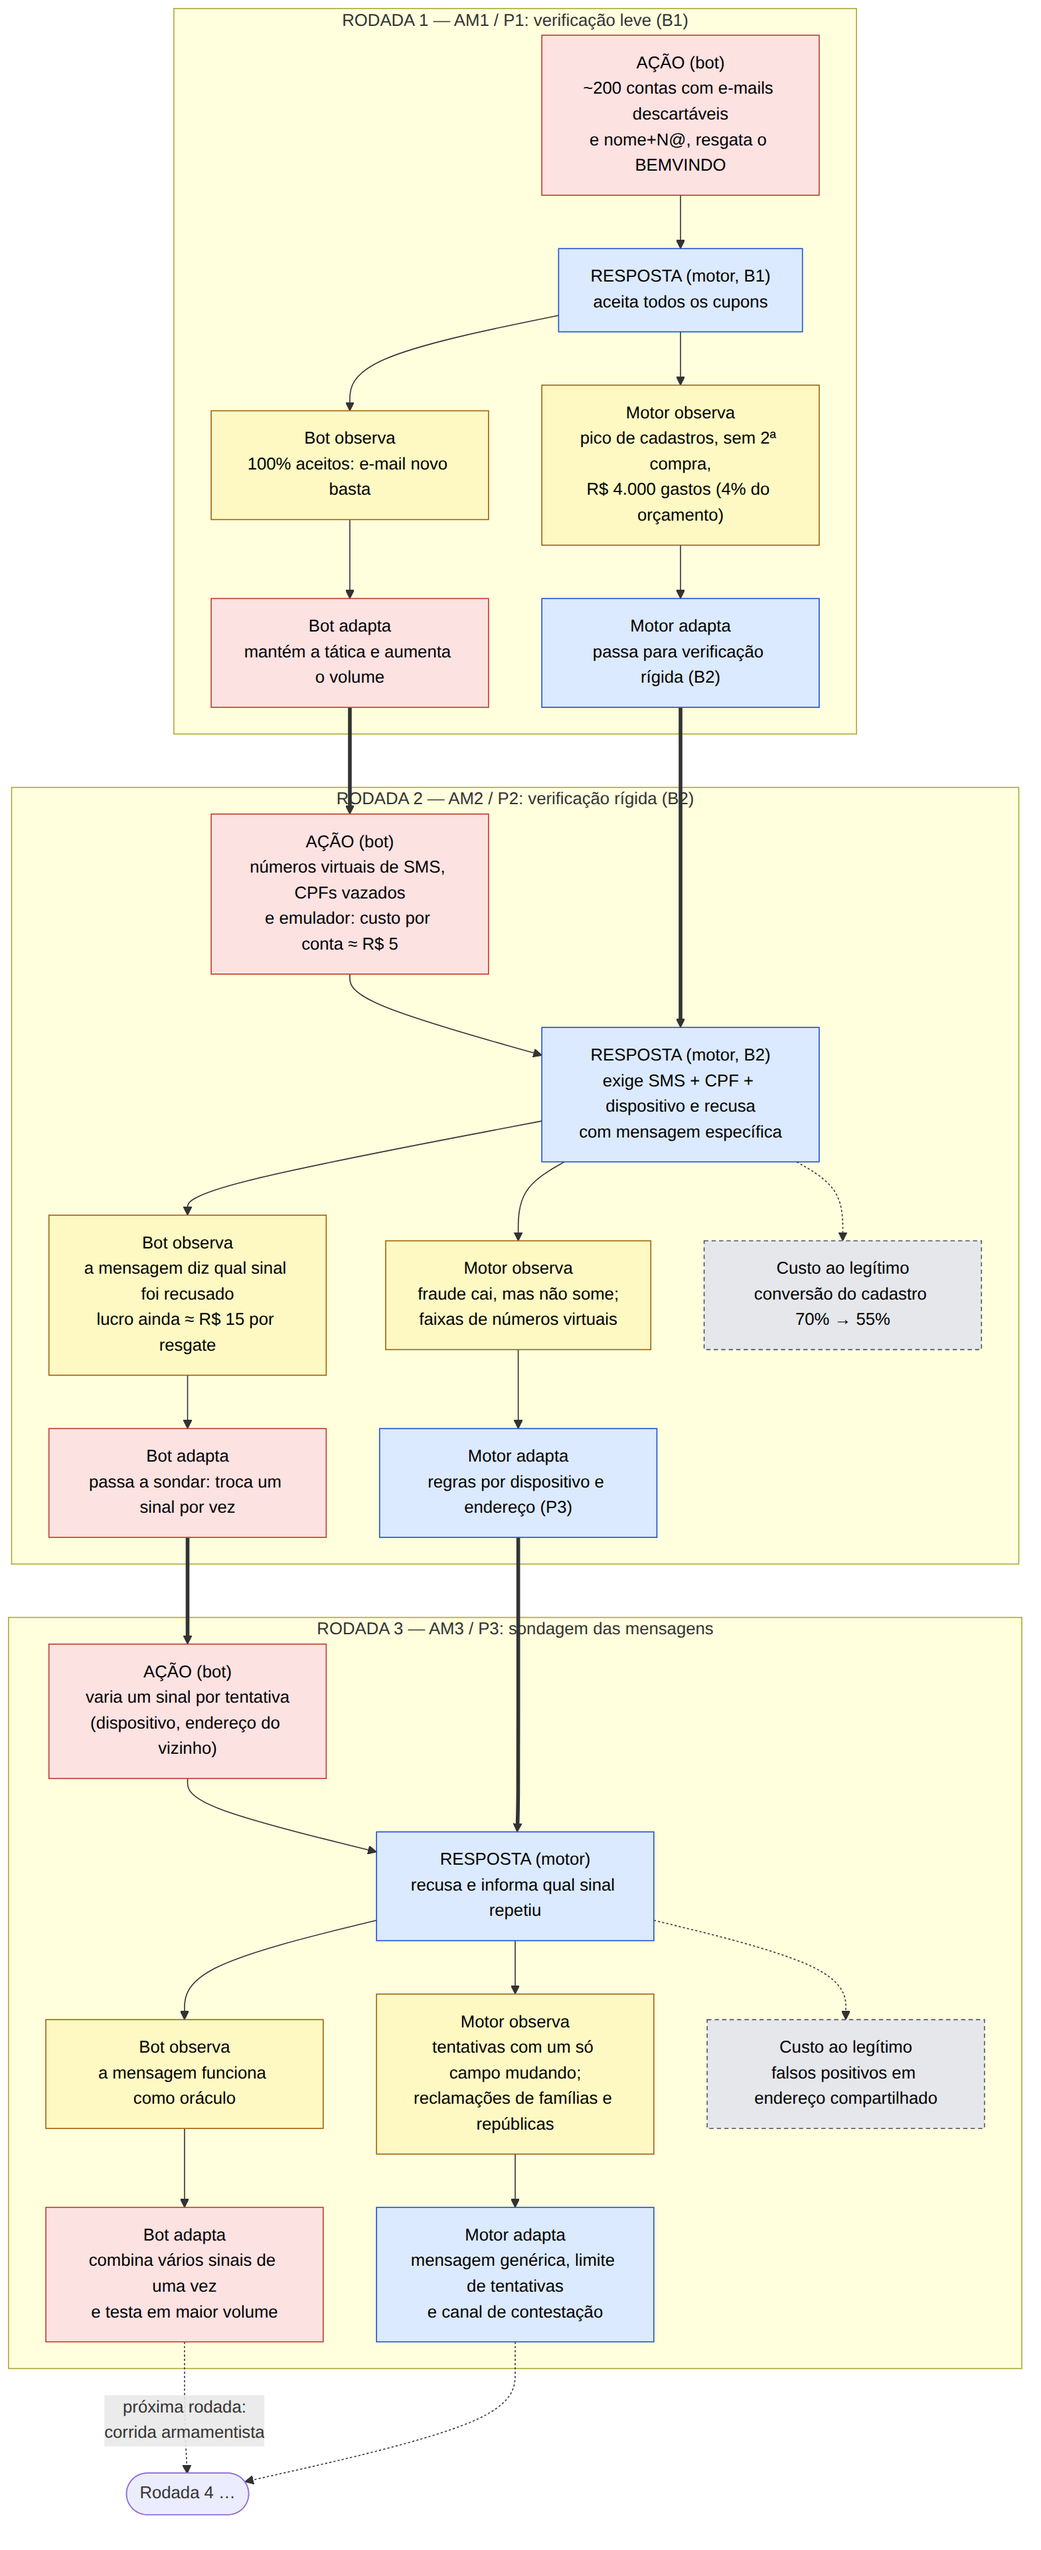
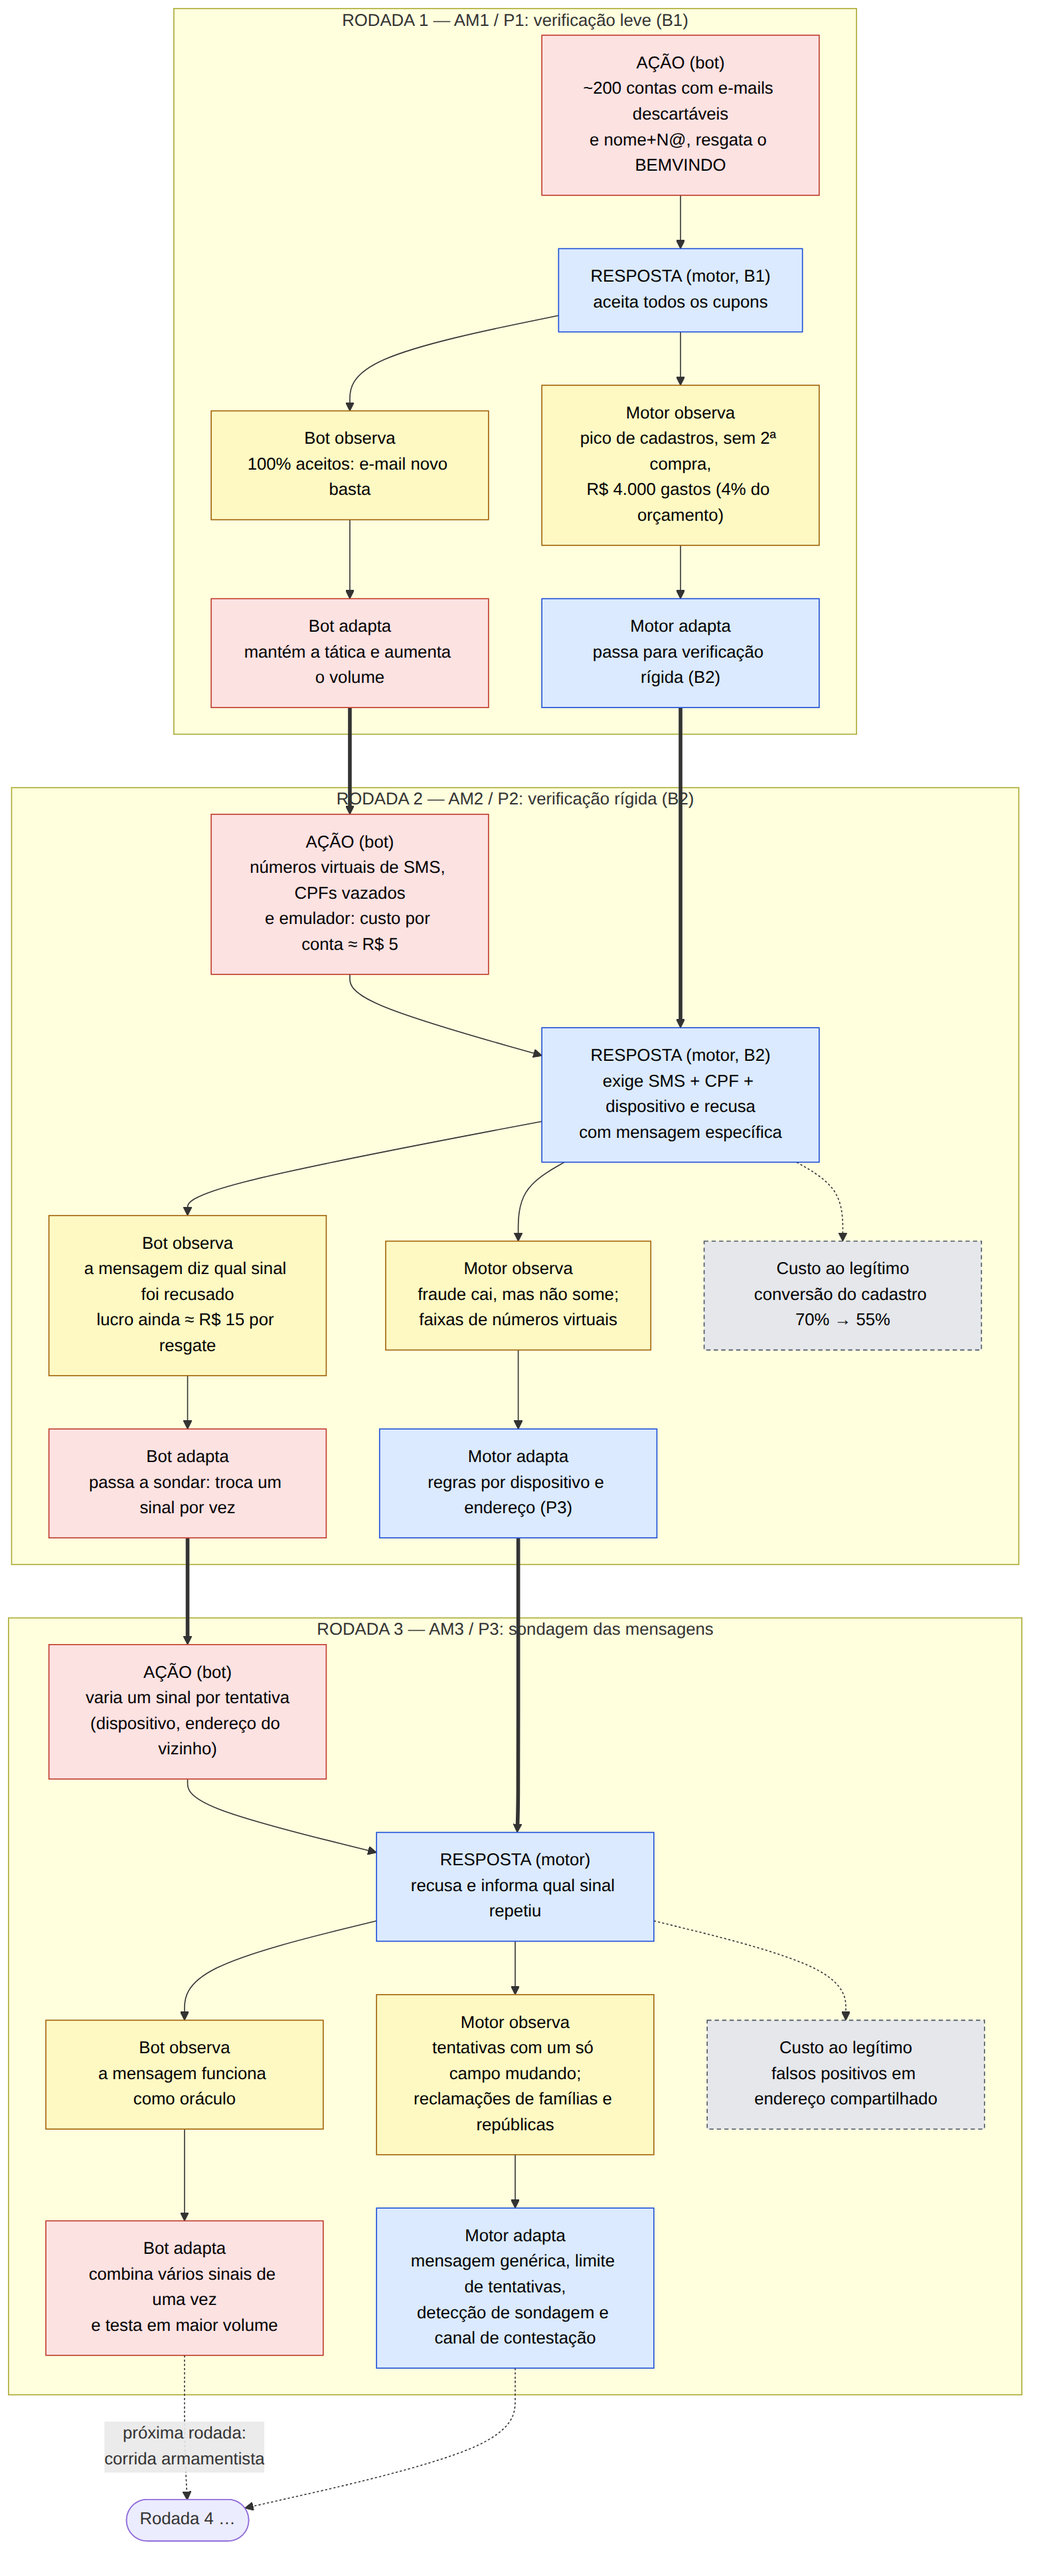
Atualiza declaração de uso de IA e ajusta texto e diagrama para conformidade

diff --git a/README.md b/README.md
@@ -86,8 +86,8 @@ nem remove):**
 | ID  | Ameaça (resumo)                                                                                                                 | Ponto    | Pressuposto ou fraqueza                      | Ativo afetado                                                                                 |
 |-----|---------------------------------------------------------------------------------------------------------------------------------|----------|----------------------------------------------|-----------------------------------------------------------------------------------------------|
 | AM1 | Bot caçador de cupons cria contas em massa com e-mails descartáveis e resgata o `BEMVINDO` em cada uma                          | PE1, PE2 | P1                                           | Orçamento de aquisição (distribuição justa)                                                   |
-| AM2 | Bot caçador de cupons passa pela verificação rígida usando números virtuais, CPFs de terceiros e aparelhos emulados             | PE1      | P2                                           | Orçamento de aquisição; confiança nos dados de cadastro                                       |
-| AM3 | Bot caçador de cupons testa variações e lê as mensagens de recusa para descobrir qual sinal o denunciou, trocando só esse sinal | PE3      | Fraqueza: mensagens de recusa detalhadas; P3 | Eficácia da defesa; experiência do cliente legítimo (defesa endurece e gera falsos positivos) |
+| AM2 | Bot caçador de cupons passa pela verificação rígida usando números virtuais, CPFs de terceiros e aparelhos emulados             | PE1      | P2                                           | Orçamento de aquisição; confiança nos dados de cadastro; privacidade dos dados pessoais |
+| AM3 | Bot caçador de cupons testa variações e lê as mensagens de recusa para descobrir qual sinal o denunciou, trocando só esse sinal | PE3      | Fraqueza: mensagens de recusa detalhadas; P3 | Distribuição justa do orçamento de aquisição (via perda de eficácia das regras); experiência de cadastro do cliente legítimo |
 
 ---
 
@@ -237,7 +237,7 @@ O **Jogador B** representa o motor antifraude do PedeJá, que busca impedir o us
 
 - **A2 + B1 = `(3, 0)`:** o bot consegue criar várias contas com facilidade e utilizar o cupom repetidamente. Essa é a melhor situação para o bot e a pior para o motor antifraude, pois o orçamento de aquisição é explorado por meio de multicontas.
 
-- **A2 + B2 = `(2, 1)`:** o bot continua tentando utilizar multicontas, mas encontra mecanismos adicionais de verificação. O custo do ataque aumenta, reduzindo sua vantagem. Para o motor antifraude, a situação é melhor do que B1, pois a verificação rígida dificulta a fraude.
+- **A2 + B2 = `(2, 1)`:** o bot continua tentando utilizar multicontas, mas encontra mecanismos adicionais de verificação. O custo do ataque aumenta, reduzindo sua vantagem. Para o motor antifraude, a situação é melhor do que B1, pois a verificação rígida dificulta a fraude. Na simulação em rodadas da seção 3, isso corresponde à rodada 2: o custo por conta sobe para cerca de R$ 5, mas ainda é bem menor que os R$ 20 do desconto, então a multiconta continua compensando para o bot.
 
 ### 2.3 Melhores respostas
 
@@ -269,6 +269,7 @@ Não é um equilíbrio ideal para o sistema nem para os usuários legítimos.
 Embora a verificação rígida dificulte a ação do bot, ela também aumenta a quantidade de verificações exigidas dos usuários. Isso pode gerar maior atrito no cadastro e dificuldades para usuários legítimos.
 
 Assim, o equilíbrio representa uma situação de conflito entre o bot e o motor antifraude. O PedeJá precisa aumentar a proteção contra multicontas sem prejudicar excessivamente a experiência dos usuários legítimos.
+
 ---
 
 ## 3. Modelo estratégico dinâmico
@@ -293,7 +294,7 @@ Ciclo: **ação → resposta → observação → adaptação**
 |------------------:|-------------------------------------------------------------------------------------------------------------------------------------------------------------------------------------------------------------------------------------------------|----------------------------------------------------------------------------------------------------------------------------------------------------------------------------------------------------------------------------------------------------------------------------|-------------------------------------------------------------------------------------------------------------------------------------------------------------------------------------------------------------------------------------------------------------------------------------------------------------------------------------------------------------------------------------------------------------------|------------------------------------------------------------------------------------------------------------------------------------------------------------------------------------------------------------------------------------------------------------------------------------------------------------------------------------------------------------------------|
 | 1 <br/>(AM1 / P1) | **Bot (A2, multicontas):** cria ≈ 200 contas em uma semana com e-mails descartáveis e variações `nome+N@...` e resgata o `BEMVINDO` em cada uma. Custo por conta ≈ R$ 0.                                                                        | **Motor em B1 (verificação leve):** só confere se o e-mail é novo; aceita todos os cupons.                                                                                                                                                                                 | **Bot:** 100% de aceitação, então e-mail novo basta e o checkout não olha dispositivo nem telefone. <br/>**Motor:** pico de cadastros vindos de poucos domínios e padrões `nome+N`, contas sem segunda compra, endereços de entrega repetidos; 200 resgates = R$ 4.000 (4% do orçamento mensal).                                                                                                                  | **Bot:** funcionou a custo ≈ 0, então mantém a tática e aumenta o volume. <br/>**Motor:** o pico dispara a mudança para **B2** (SMS + CPF + identificação do dispositivo). Mesmo objetivo (um cupom por pessoa), nova ação.                                                                                                                                            |
 | 2 <br/>(AM2 / P2) | **Bot:** repete a tática e é barrado no pedido de telefone. Mantém o objetivo e **muda a ação**: números virtuais de SMS (≈ R$ 3), CPFs vazados (≈ R$ 2) e emulador com novo identificador de dispositivo a cada conta. **c sobe para ≈ R$ 5.** | **Motor em B2 (verificação rígida):** exige SMS, CPF e dispositivo; recusa contas que repetem telefone, CPF ou dispositivo. Para não frustrar clientes legítimos, **a mensagem de recusa é específica** ("este CPF já foi usado", "este dispositivo já resgatou o cupom"). | **Bot:** sabe quais sinais o checkout exige e **qual sinal foi recusado em cada tentativa** (a resposta virou informação); ainda lucra ≈ R$ 15 por resgate (R$ 20 − R$ 5). <br/>**Motor:** resgates fraudulentos caem, mas não a zero; aparecem faixas de números virtuais e o mesmo CPF em vários aparelhos. **Efeito colateral:** a conclusão do cadastro cai de 70% para 55% e o suporte recebe mais chamados. | **Bot:** como ainda compensa, não desiste; passa a **sondar**, trocando um sinal por vez e lendo a mensagem de recusa. <br/>**Motor:** acrescenta regras de ligação por **dispositivo e endereço** (P3) e bloqueia faixas de telefone virtual conhecidas. Mantém as mensagens detalhadas para reduzir reclamações (o que abre a rodada 3).                             |
-| 3 <br/>(AM3 / P3) | **Bot:** cada conta nova varia **um único sinal** em relação à anterior (novo dispositivo emulado; depois endereço do vizinho ou da portaria) e lê a recusa até achar a combinação aceita.                                                      | **Motor (regras por dispositivo/endereço):** recusa e informa qual sinal repetiu. As mesmas regras também recusam **famílias e repúblicas** que dividem aparelho ou endereço (**falso positivo**).                                                                         | **Bot:** a mensagem funciona como um **oráculo**: em poucas tentativas descobre que endereço e dispositivo são os sinais decisivos. <br/>**Motor:** sequências de tentativas em que só um campo muda (padrão de sondagem), mais reclamações e recusas concentradas em endereços compartilhados. Parte das contas do bot com endereços variados **ainda passa**.                                                   | **Bot:** troca vários sinais de uma vez e testa em maior volume (mais contas "queimadas" por resgate bem-sucedido, c ≈ R$ 8). <br/>**Motor:** substitui a mensagem detalhada por uma genérica ("não foi possível aplicar o cupom"), limita tentativas por dispositivo e sessão e cria um canal de contestação para falsos positivos (controles detalhados na seção 5). |
+| 3 <br/>(AM3 / P3) | **Bot:** cada conta nova varia **um único sinal** em relação à anterior (novo dispositivo emulado; depois endereço do vizinho ou da portaria) e lê a recusa até achar a combinação aceita.                                                      | **Motor (regras por dispositivo/endereço):** recusa e informa qual sinal repetiu. As mesmas regras também recusam **famílias e repúblicas** que dividem aparelho ou endereço (**falso positivo**).                                                                         | **Bot:** a mensagem funciona como um **oráculo**: em poucas tentativas descobre que endereço e dispositivo são os sinais decisivos. <br/>**Motor:** sequências de tentativas em que só um campo muda (padrão de sondagem), mais reclamações e recusas concentradas em endereços compartilhados. Parte das contas do bot com endereços variados **ainda passa**.                                                   | **Bot:** troca vários sinais de uma vez e testa em maior volume (mais contas "queimadas" por resgate bem-sucedido, c ≈ R$ 8). <br/>**Motor:** substitui a mensagem detalhada por uma genérica ("não foi possível aplicar o cupom"), limita tentativas por dispositivo, sessão e cartão, passa a detectar o padrão de sondagem (sequências em que só um campo muda) e cria um canal de contestação para falsos positivos (controles detalhados nas seções 4.5 e 5). |
 
 ### Balanço de custos por rodada (valores hipotéticos)
 
@@ -346,7 +347,7 @@ Fonte editável: [`diagramas/ciclo-adaptativo.mmd`](diagramas/ciclo-adaptativo.m
 - **Qual é o custo da adaptação para cada lado?**
 
   | | Bot | Motor antifraude |
-                          |-|-|-|
+  |-|-|-|
   | Custo da adaptação | Mais dinheiro por conta (R$ 0 → R$ 5 → R$ 8); contas e números "queimados"; tempo para reescrever o script | Custo de SMS e consulta de CPF em todo cadastro; engenharia e manutenção das regras; suporte; limites da LGPD sobre coleta de dados |
   | Quem mais paga | O fraudador | **Também o cliente legítimo** (atrito, falso positivo) e a equipe de produto (conversão) |
 
@@ -805,7 +806,7 @@ _[Texto introdutório — Guilherme.]_
 | Ariessa Velasques Oliveira               |                      |                                                                                                        |                                                                                             |
 | Maria Eduarda Sanchez Chessio            |                      |                                                                                                        |                                                                                             |
 | Mirieli Rodrigues dos Santos de Oliveira |                      |                                                                                                        |                                                                                             |
-| Vitoria Pereira Garcia                   |                      |                                                                                                        |                                                                                             |
+| Vitoria Pereira Garcia | Claude (Anthropic) | Revisão e correção de texto da seção 3; conferência de consistência com as seções 2, 4, 5 e 6 (valores, IDs e controles da AM3), que levou ao ajuste da rodada 3 e à correção de uma tabela em Markdown; atualização e exportação do diagrama do ciclo adaptativo; apoio na organização dos slides e do roteiro da minha fala | Escrevi a seção 3 e o diagrama antes de usar a IA; conferi números e IDs contra a Ficha e as seções 1, 2, 4 e 5; comparei o diagrama com a tabela das rodadas; li e ajustei o texto antes do commit e revisei slides e roteiro |
 | Guilherme Jaques                         |                      |                                                                                                        |                                                                                             |
 | Eduardo Dutra Ferreira                   | ChatGPT e NotebookLM | Apoio à pesquisa, esclarecimento de dúvidas, revisão textual e estruturação do arquivo Markdown (.md). | Revisão manual do conteúdo e conferência de sua coerência com as demais seções do trabalho. |
 
